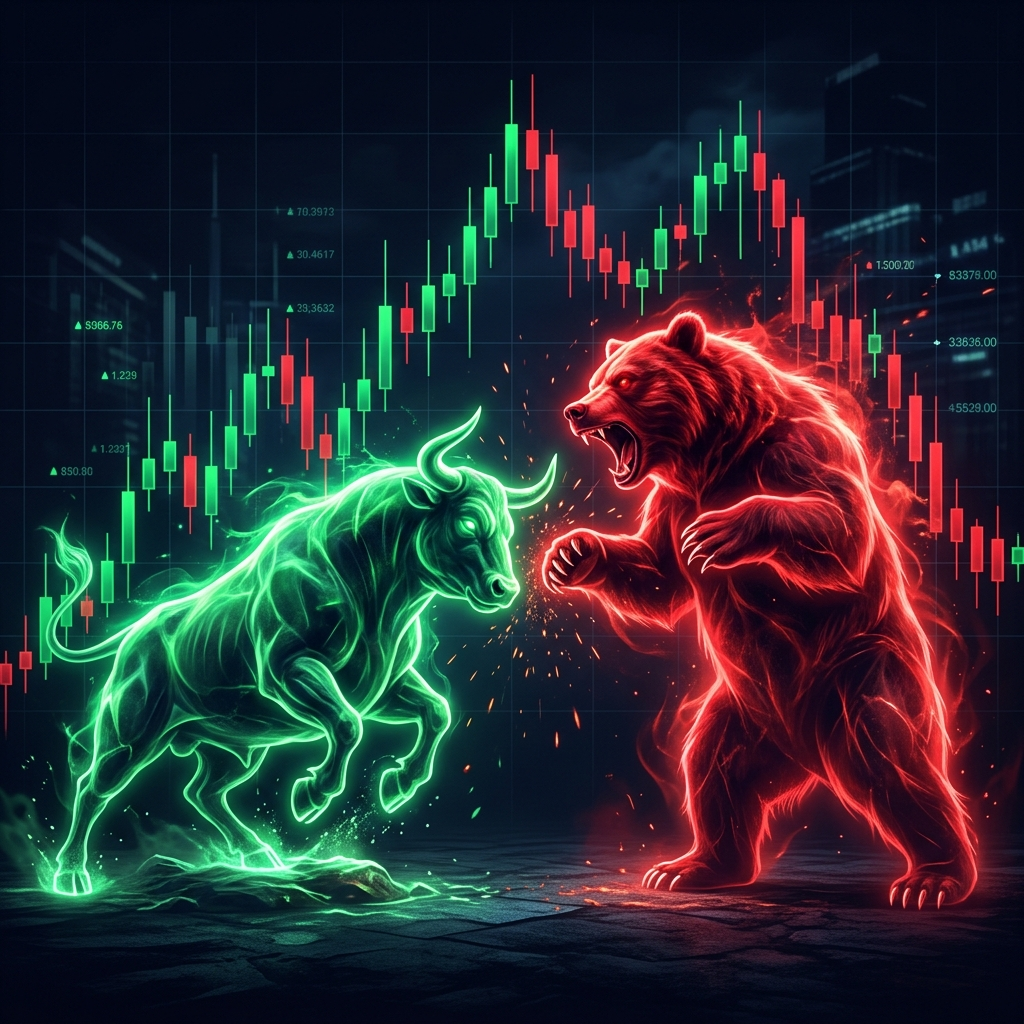
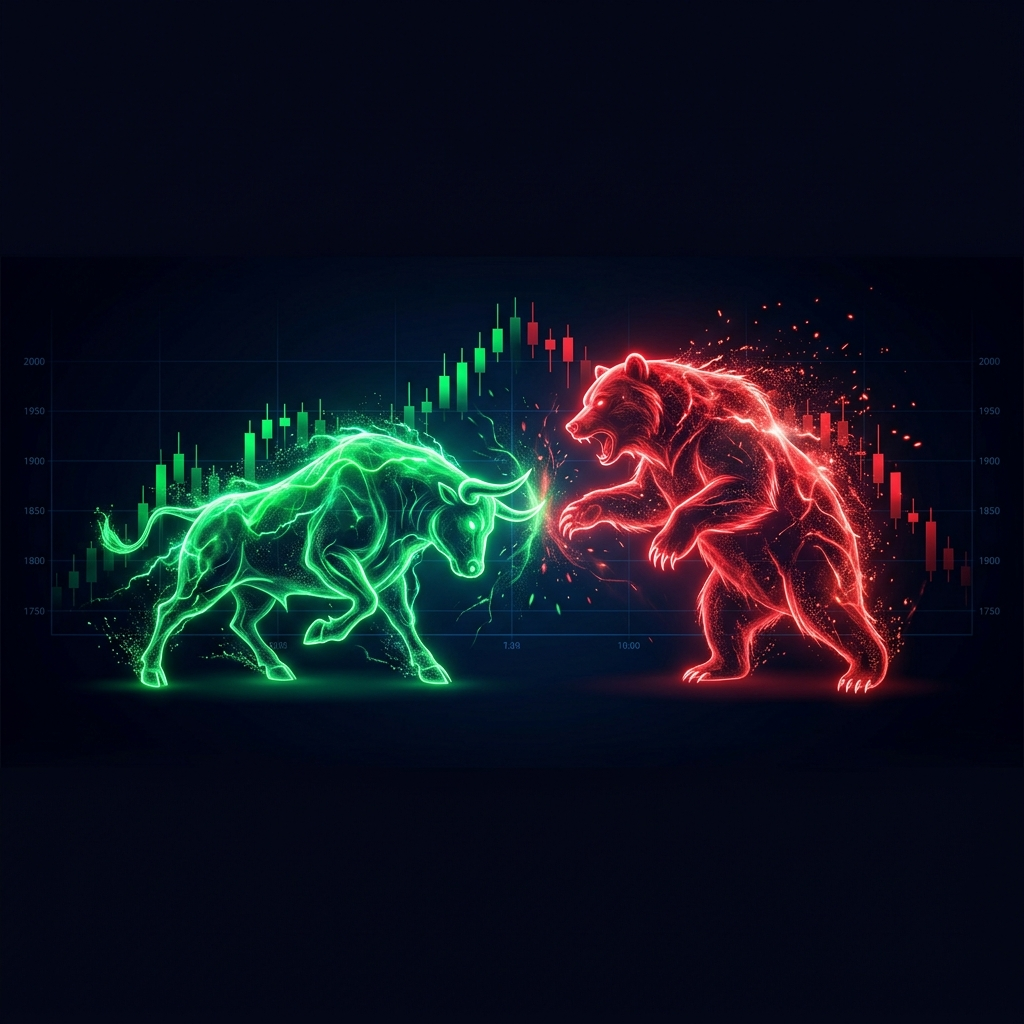
feat: wide bull vs bear image, no animation, seamless dark bg integration

diff --git a/app.py b/app.py
@@ -131,21 +131,17 @@ st.markdown("""
         margin-bottom: 1rem;
     }
     .hero-portal .logo {
-        margin-bottom: 0.8rem;
+        margin-bottom: 0.5rem;
         display: flex;
         justify-content: center;
         align-items: center;
-        animation: float 3s ease-in-out infinite;
     }
     .hero-portal .logo img {
-        width: 160px;
-        height: 160px;
-        filter: drop-shadow(0 0 30px rgba(124, 77, 255, 0.25));
-        border-radius: 16px;
-    }
-    @keyframes float {
-        0%, 100% { transform: translateY(0px); }
-        50% { transform: translateY(-10px); }
+        width: 100%;
+        max-width: 600px;
+        height: auto;
+        border-radius: 12px;
+        opacity: 0.95;
     }
     .hero-portal h1 {
         font-size: 3.2rem;
